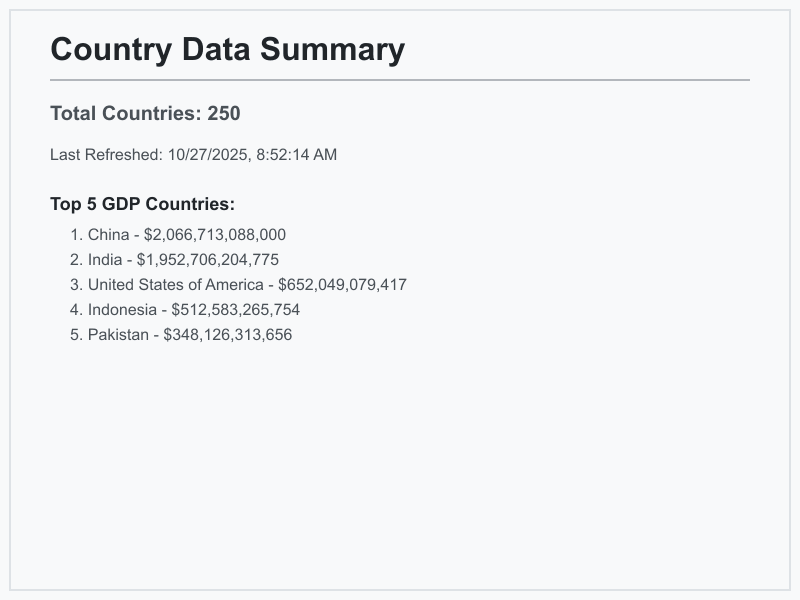
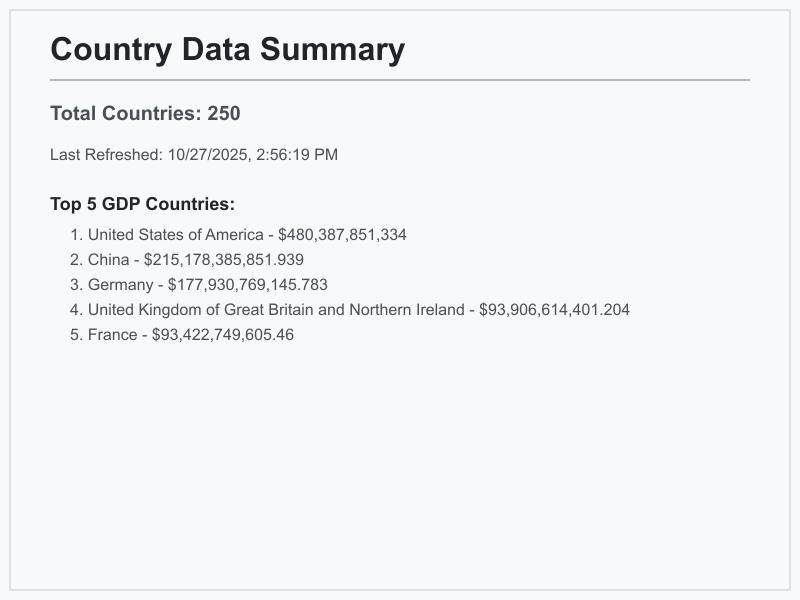
cleanups

Changed region(s): [[0.0938, 0.36, 0.7812, 0.57], [0.3125, 0.24, 0.4375, 0.27]]

diff --git a/src/services/status.ts b/src/services/status.ts
@@ -11,19 +11,20 @@ const statusService = {
         return last_refreshed_at ?? null
     },
 
-    createLastRefreshedAt: async (total_countries: number) => {
+    createLastRefreshedAt: async (data: { total_countries: number, last_refreshed_at: string }) => {
         const createdLastRefreshedAt = await globalRefreshRepository.insert({
             name: 'global_refresh',
-            total_countries: total_countries,
-            last_refreshed_at: new Date().toISOString(),
+            total_countries: data.total_countries,
+            last_refreshed_at: data.last_refreshed_at,
         });
         return createdLastRefreshedAt ?? null;
     },
 
-    updateLastRefreshedAt: async (total_countries: number) => {
-        const updatedLastRefreshedAt = await globalRefreshRepository.updateDataWhere({ name: 'global_refresh' }, {
-            total_countries: total_countries,
-            last_refreshed_at: new Date().toISOString(),
+    updateLastRefreshedAt: async (data: { total_countries: number, last_refreshed_at: string }) => {
+        const updatedLastRefreshedAt = await globalRefreshRepository.updateDataWhere({ name: 'global_refresh'}, {
+            total_countries: data.total_countries,
+            last_refreshed_at: data.last_refreshed_at,
+            name: 'global_refresh',
         });
         return updatedLastRefreshedAt ?? null;
     }
